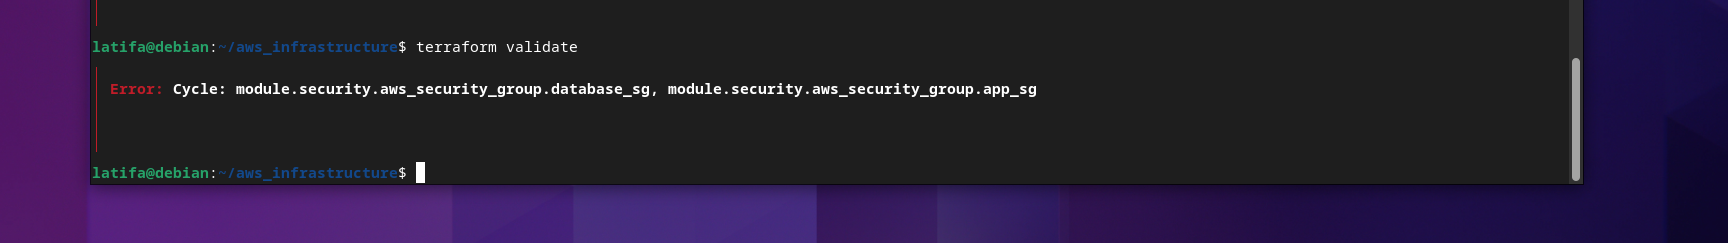
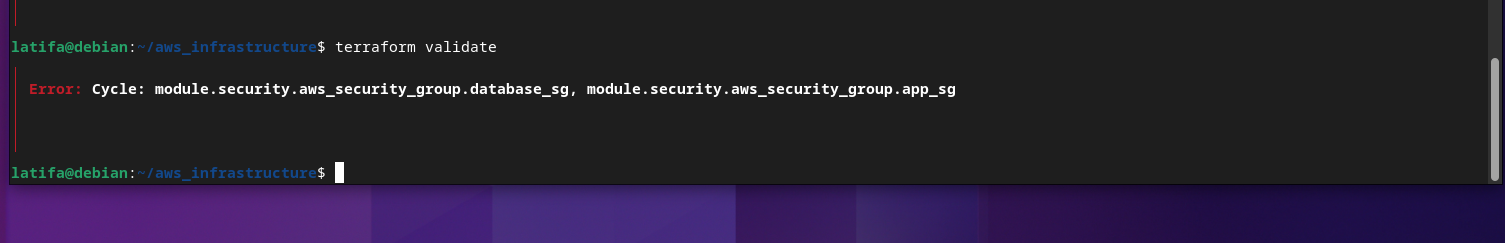
final

diff --git a/README.md b/README.md
@@ -39,8 +39,7 @@ Terraform state is stored in a remote S3 backend, ensuring a secure and centrali
 * Cost Optimization: 
 The project is designed with cost efficiency in mind. Auto Scaling ensures that compute resources are only provisioned when necessary, scaling up during high traffic and scaling down during periods of low demand, minimizing costs. Additionally, most resources, such as the S3 backend, RDS, and EC2 instances, are configured to operate within the AWS Free Tier where possible, reducing operational expenses during the initial phases of development and testing.
 
-
-    -- place diagram here --
+![diagram](assets/diagram.png)
 
 
 ### Project Structure
@@ -228,10 +227,25 @@ This project adheres to key best practices to ensure security, scalability, and 
 
 ## Troubleshooting
 ----------------------------
-Provide solutions to common issues:
+Issue: Cycle Detected in Security Groups
+When applying the Terraform configuration, the following error appeared:
 
-Error: Error: Cycle detected in module dependencies
-Solution: Check for circular dependencies in your module configurations.
+![error](assets/cycle-error.png)
+
+Cause:
+This error arises when two security groups reference each other in their ingress rules, creating a circular dependency. Terraform cannot determine which security group should be created first, resulting in a cycle error.
+
+Solution:
+To resolve this, it’s essential to separate the creation of security groups from the assignment of their rules.
+
+First, create the security groups without any rules that introduce dependencies.
+Next, define the security group rules separately, referencing the already created security groups.
+By doing this, Terraform can create the security groups independently, and then apply the dependent rules afterward, avoiding the cycle error.
+
+This approach ensures that all security groups are created before any interdependent rules are applied, breaking the circular dependency and allowing the configuration to be applied successfully.
+
+![security-grp](assets/back-sg.png)
+![backend-rules](assets/backend-rules.png)
 
 ## Monitoring and Logging
 ------------------------------
